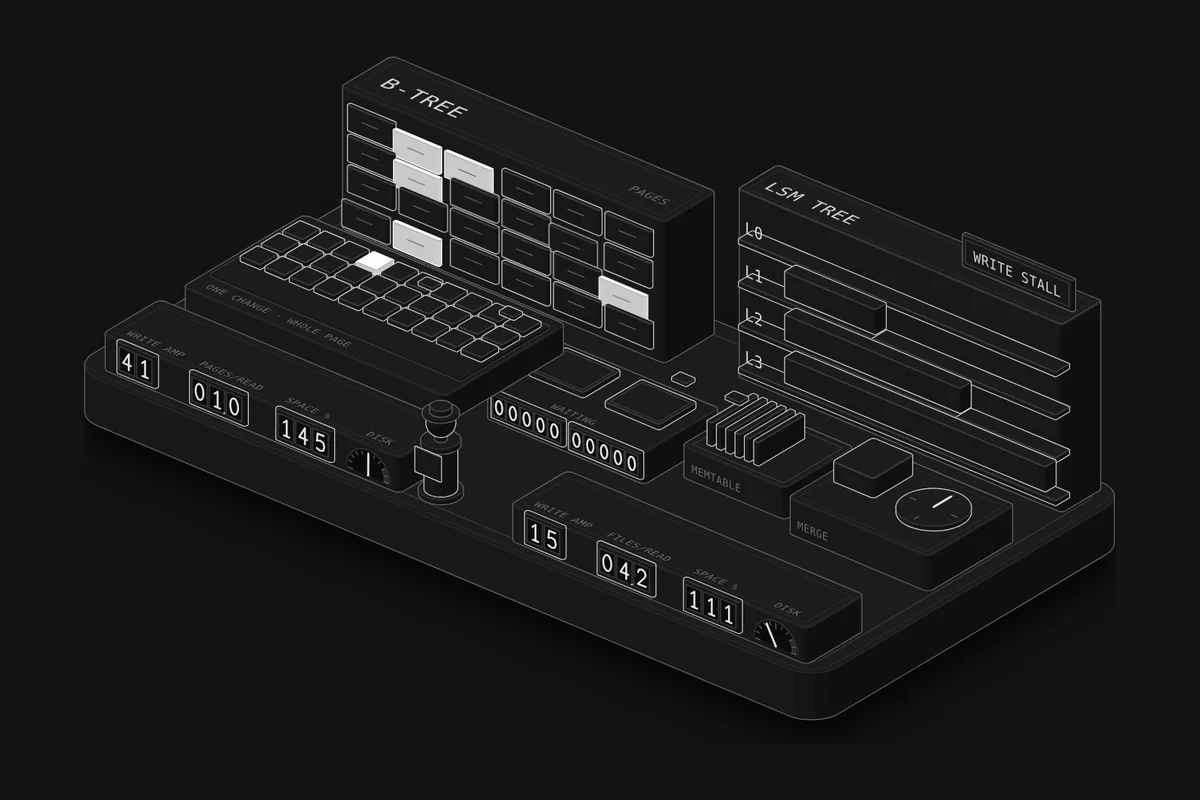
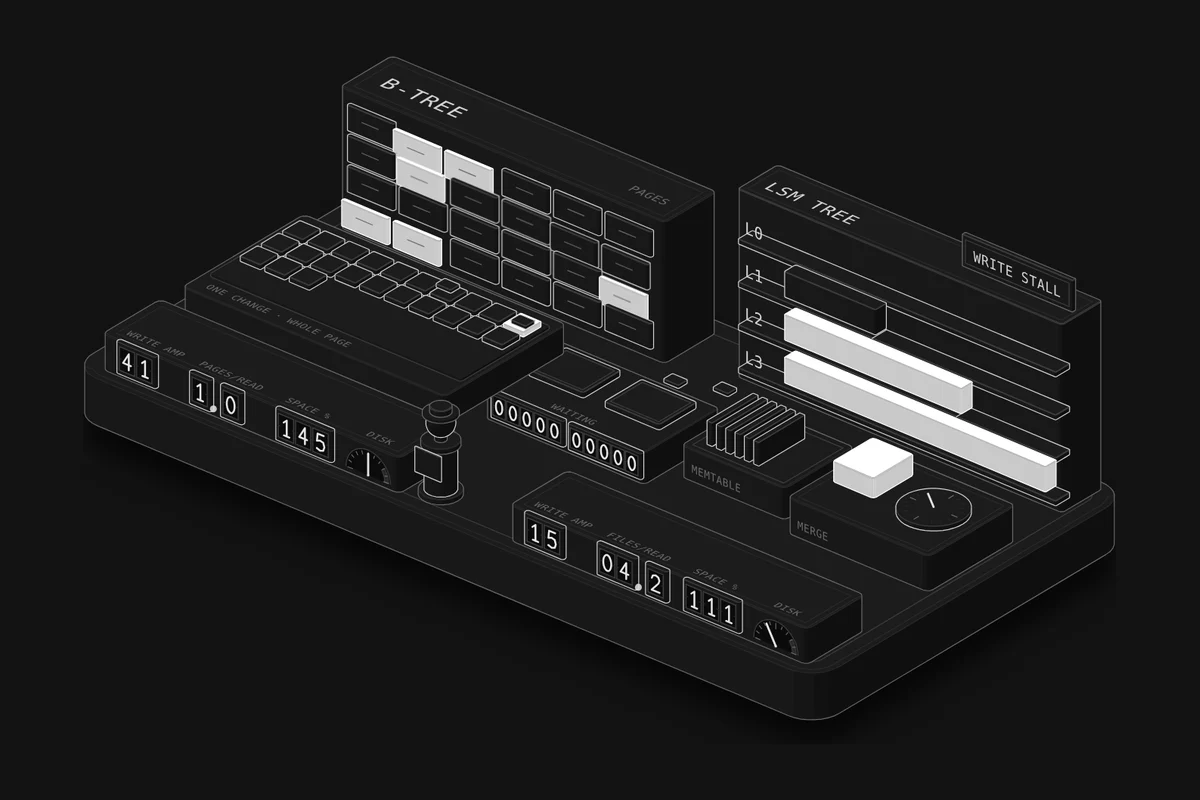
Lesson 67: decimal point on the per-read counters
Pages/read and files/read now show whole wheels, a decimal point and a
tenths wheel (1.0, 04.2) instead of three wheels that read as 010 and 042.

Claude-Session: https://claude.ai/code/session_01S5z2gCvevbrGU3fXgpGDmP

diff --git a/src/lessons/lsm/figure.ts b/src/lessons/lsm/figure.ts
@@ -108,10 +108,15 @@ function pageTable() {
   out.push(text(PTAB.x + 4, PTAB.y + PTAB.d - 3, PTAB_H, t("ONE CHANGE · WHOLE PAGE", "UN CAMBIO · PÁGINA ENTERA"), SIZE, { face: "top" }));
   return out.join("");
 }
-function counterCol(x, y, name, count, words, { dot = false } = {}) {
+function counterCol(x, y, name, count, words, { tenths = false } = {}) {
   const w = 4.4, gap = 0.6;
   const out = [digitCounter(P, { x, y, z: 1.6, count, w, h: 6, gap, pad: 1, name })];
-  if (dot) out.push(D([k.iso([x + (count - 1) * (w + gap) - gap / 2, y + 0.4, 2.1], P)], { size: 0.6, tone: "hi" }));
+  if (tenths) {
+    // a decimal point, then one wheel for tenths in its own housing (as the BM25 lesson's score wheels)
+    const end = x + count * w + (count - 1) * gap;
+    out.push(k.dotsSvg([k.iso([end + 2.3, y + 0.6, 2.2], P)], { size: 2.2, tone: "hi" }));
+    out.push(digitCounter(P, { x: end + 4.6, y, z: 1.6, count: 1, w, h: 6, gap, pad: 1, name: name + "f" }));
+  }
   out.push(text(x - 1, y - 3.2, BENCH_H, words, SIZE, { face: "top" }));
   return out.join("");
 }
@@ -120,7 +125,7 @@ function benchB() {
   out.push(L(k.planOutline(k.insetPlan(BENCH_B, 2.2), BENCH_H, P), { tone: "faint" }));
   const f = BENCH_B.y + BENCH_B.d, x = BENCH_B.x;
   out.push(counterCol(x + 5, f, "waB", 2, t("WRITE AMP", "AMP. ESCR.")));
-  out.push(counterCol(x + 26, f, "rdB", 3, t("PAGES/READ", "PÁG./LECT."), { dot: true }));
+  out.push(counterCol(x + 26, f, "rdB", 1, t("PAGES/READ", "PÁG./LECT."), { tenths: true }));
   out.push(counterCol(x + 51, f, "spB", 3, t("SPACE %", "ESPACIO %")));
   out.push(meter(P, { x: x + 77, y: f, z: 1.4, r: 6.4, ticks: 10, zone: 0.8, name: "diskB" }));
   out.push(text(x + 77, f - 3.2, BENCH_H, t("DISK", "DISCO"), SIZE, { face: "top", anchor: "middle" }));
@@ -194,7 +199,7 @@ function benchL() {
   out.push(L(k.planOutline(k.insetPlan(BENCH_L, 2.2), BENCH_H, P), { tone: "faint" }));
   const f = BENCH_L.y + BENCH_L.d, x = BENCH_L.x;
   out.push(counterCol(x + 5, f, "waL", 2, t("WRITE AMP", "AMP. ESCR.")));
-  out.push(counterCol(x + 26, f, "rdL", 3, t("FILES/READ", "ARCH./LECT."), { dot: true }));
+  out.push(counterCol(x + 26, f, "rdL", 2, t("FILES/READ", "ARCH./LECT."), { tenths: true }));
   out.push(counterCol(x + 51, f, "spL", 3, t("SPACE %", "ESPACIO %")));
   out.push(meter(P, { x: x + 77, y: f, z: 1.4, r: 6.4, ticks: 10, zone: 0.8, name: "diskL" }));
   out.push(text(x + 77, f - 3.2, BENCH_H, t("DISK", "DISCO"), SIZE, { face: "top", anchor: "middle" }));

diff --git a/src/lessons/lsm/live.ts b/src/lessons/lsm/live.ts
@@ -25,7 +25,7 @@ export default function mount({ P, G }, root) {
   const press = q("[data-press]"), needle = q("[data-progress]"), stallSign = q("[data-stall]");
   const labels = { leveled: qa('[data-labels="leveled"]'), tiered: qa('[data-labels="tiered"]'), ticks: qa("[data-target]") };
   const fly = q('[data-layer="fly"]');
-  const counters = Object.fromEntries(["waitB", "waitL", "waB", "waL", "rdB", "rdL", "spB", "spL"].map((n) => [n, WB.counter(svg, n, P)]));
+  const counters = Object.fromEntries(["waitB", "waitL", "waB", "waL", "rdB", "rdBf", "rdL", "rdLf", "spB", "spL"].map((n) => [n, WB.counter(svg, n, P)]));
   const meters = { diskB: WB.meter(svg, "diskB", P), diskL: WB.meter(svg, "diskL", P) };
 
   // ---------- settings and the run ----------
@@ -211,7 +211,9 @@ export default function mount({ P, G }, root) {
     if (waB !== null) counters.waB.setClamped(Math.round(waB));
     if (waL !== null) counters.waL.setClamped(Math.round(waL));
     const rb = mean(m.reads.bt.map((x) => x.pages)), rl = mean(m.reads.lsm.map((x) => x.pages)), fl = mean(m.reads.lsm.map((x) => x.files));
-    counters.rdB.setClamped(Math.round(rb * 10)); counters.rdL.setClamped(Math.round(fl * 10));
+    const tenthsOf = (v) => { const n = Math.min(999, Math.round(v * 10)); return [Math.floor(n / 10), n % 10]; };
+    { const [i, f] = tenthsOf(rb); counters.rdB.set(i); counters.rdBf.set(f); }
+    { const [i, f] = tenthsOf(fl); counters.rdL.set(i); counters.rdLf.set(f); }
     counters.spB.setClamped(Math.round(bt.space * 100)); counters.spL.setClamped(Math.round(ls.space * 100));
     meters.diskB.set(Math.min(1, m.busy.bt)); meters.diskL.set(Math.min(1, m.busy.lsm));
 
